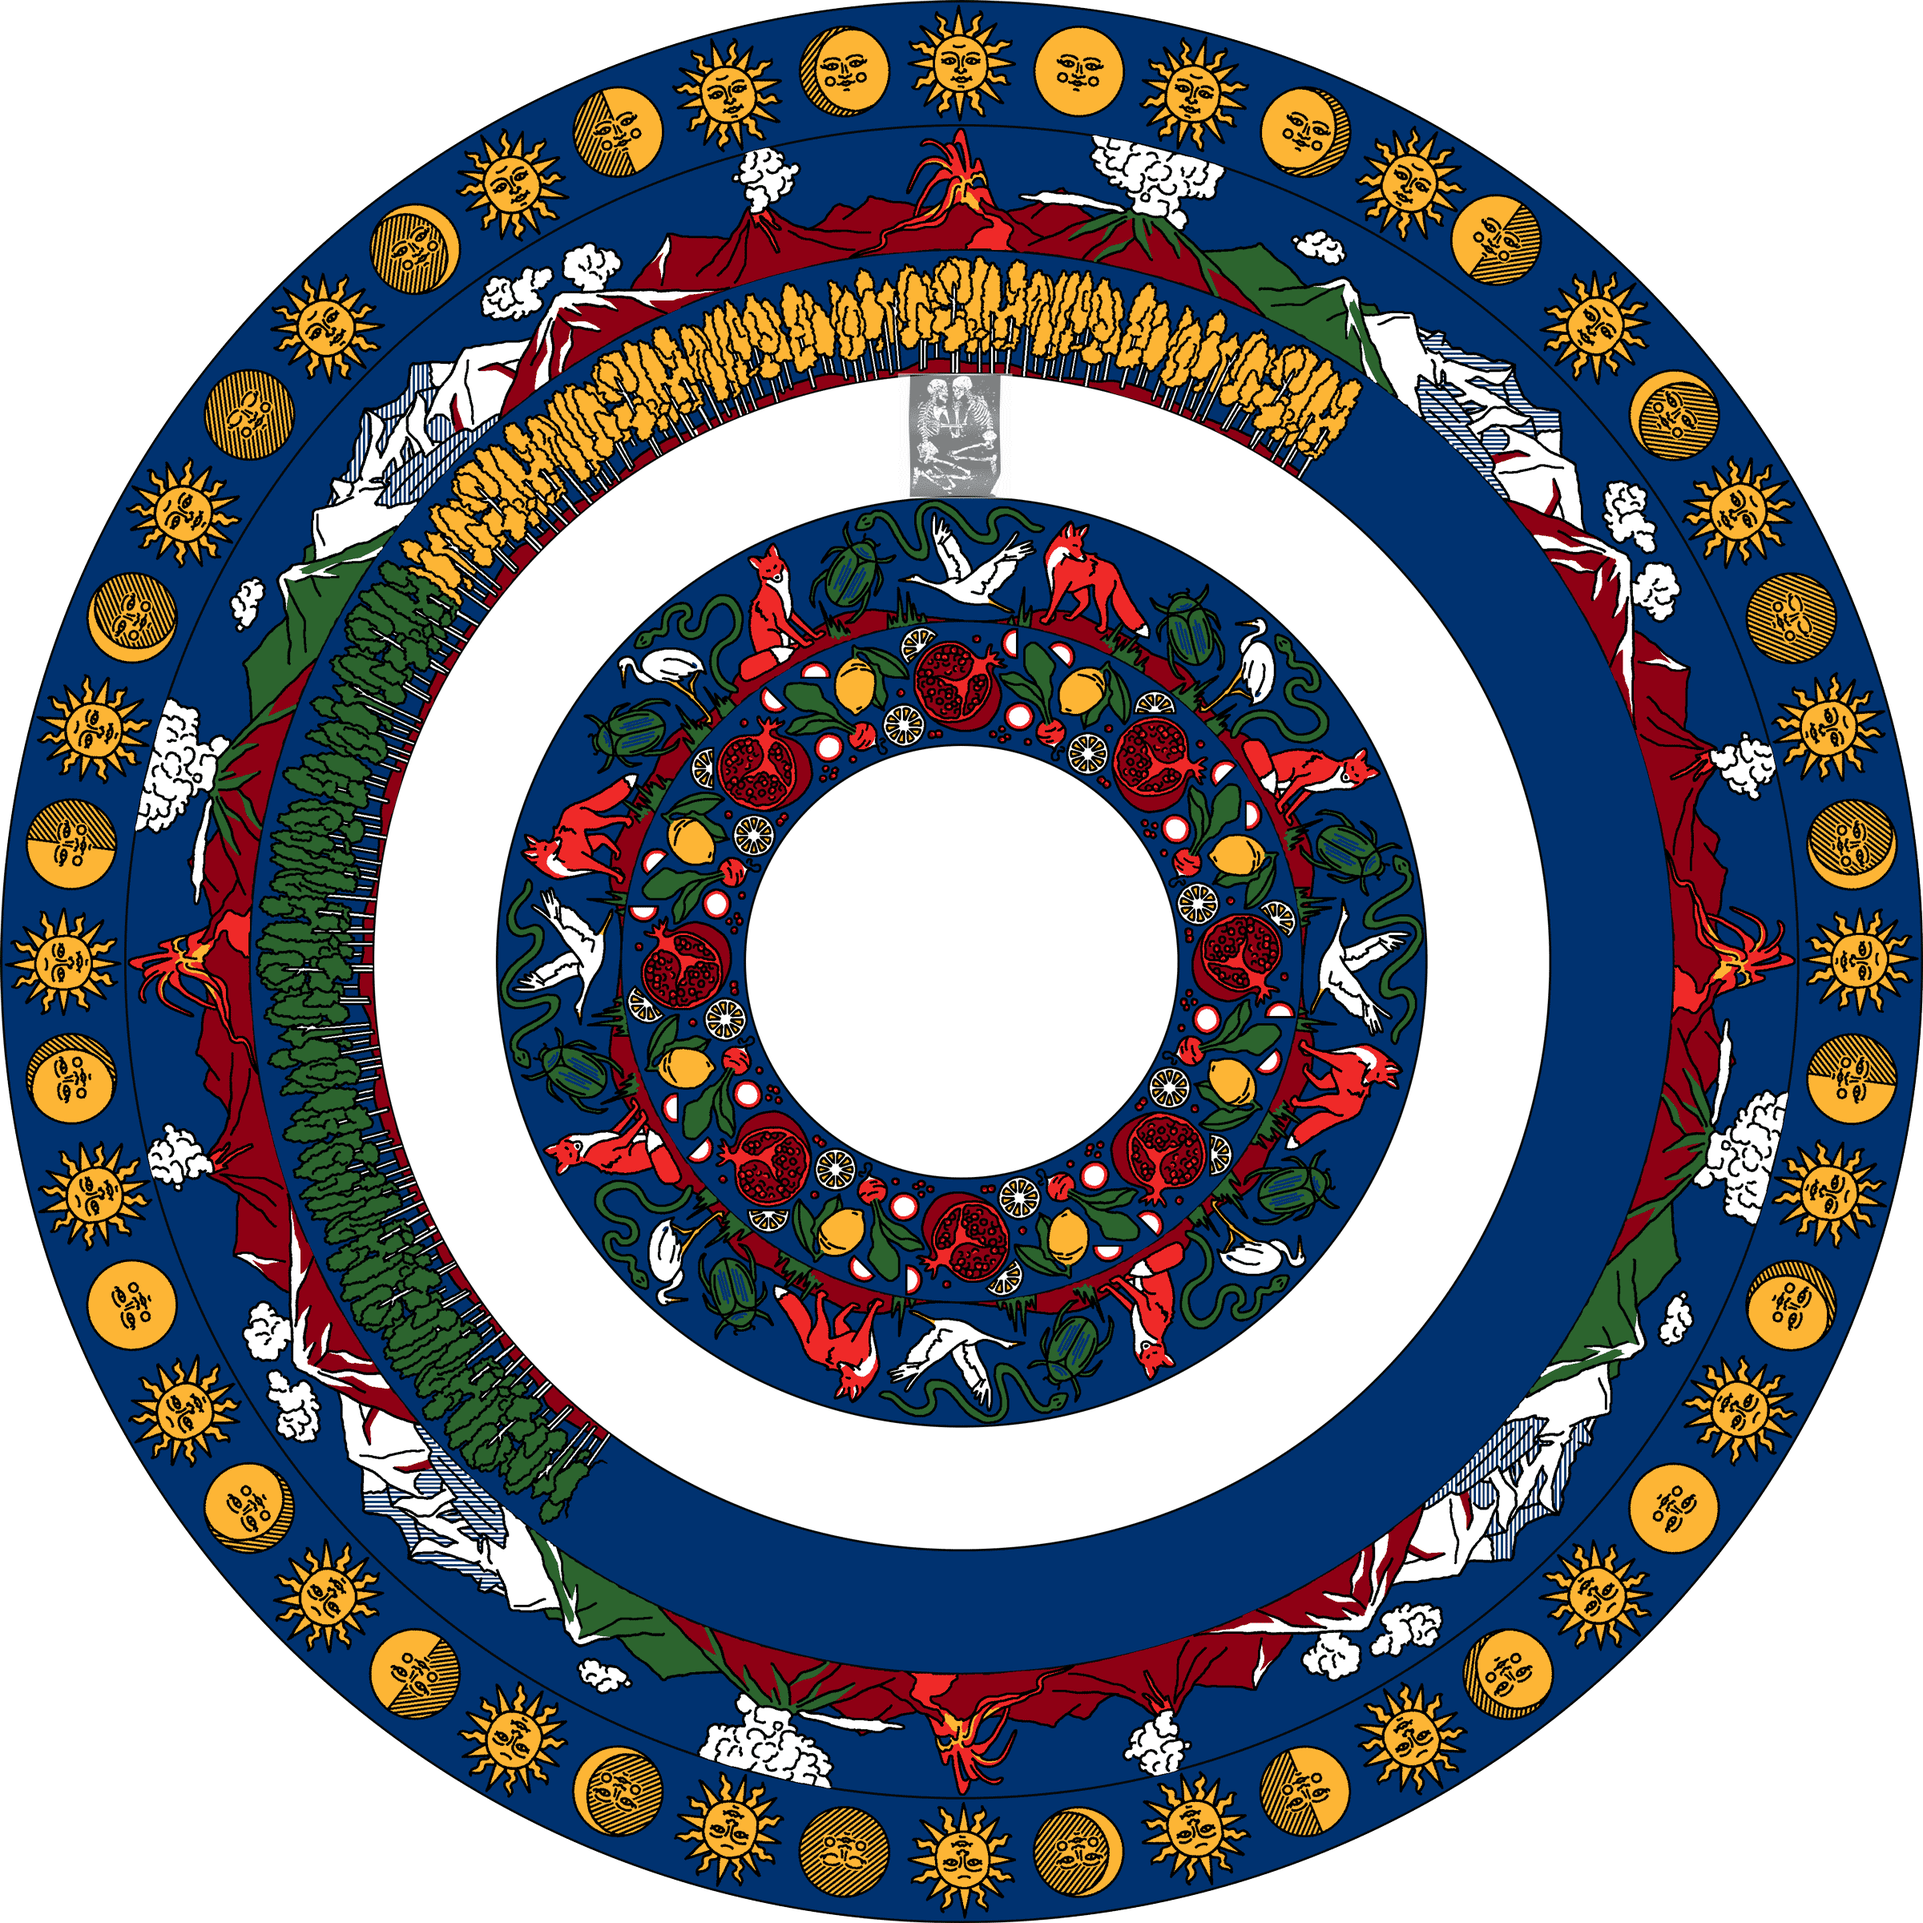
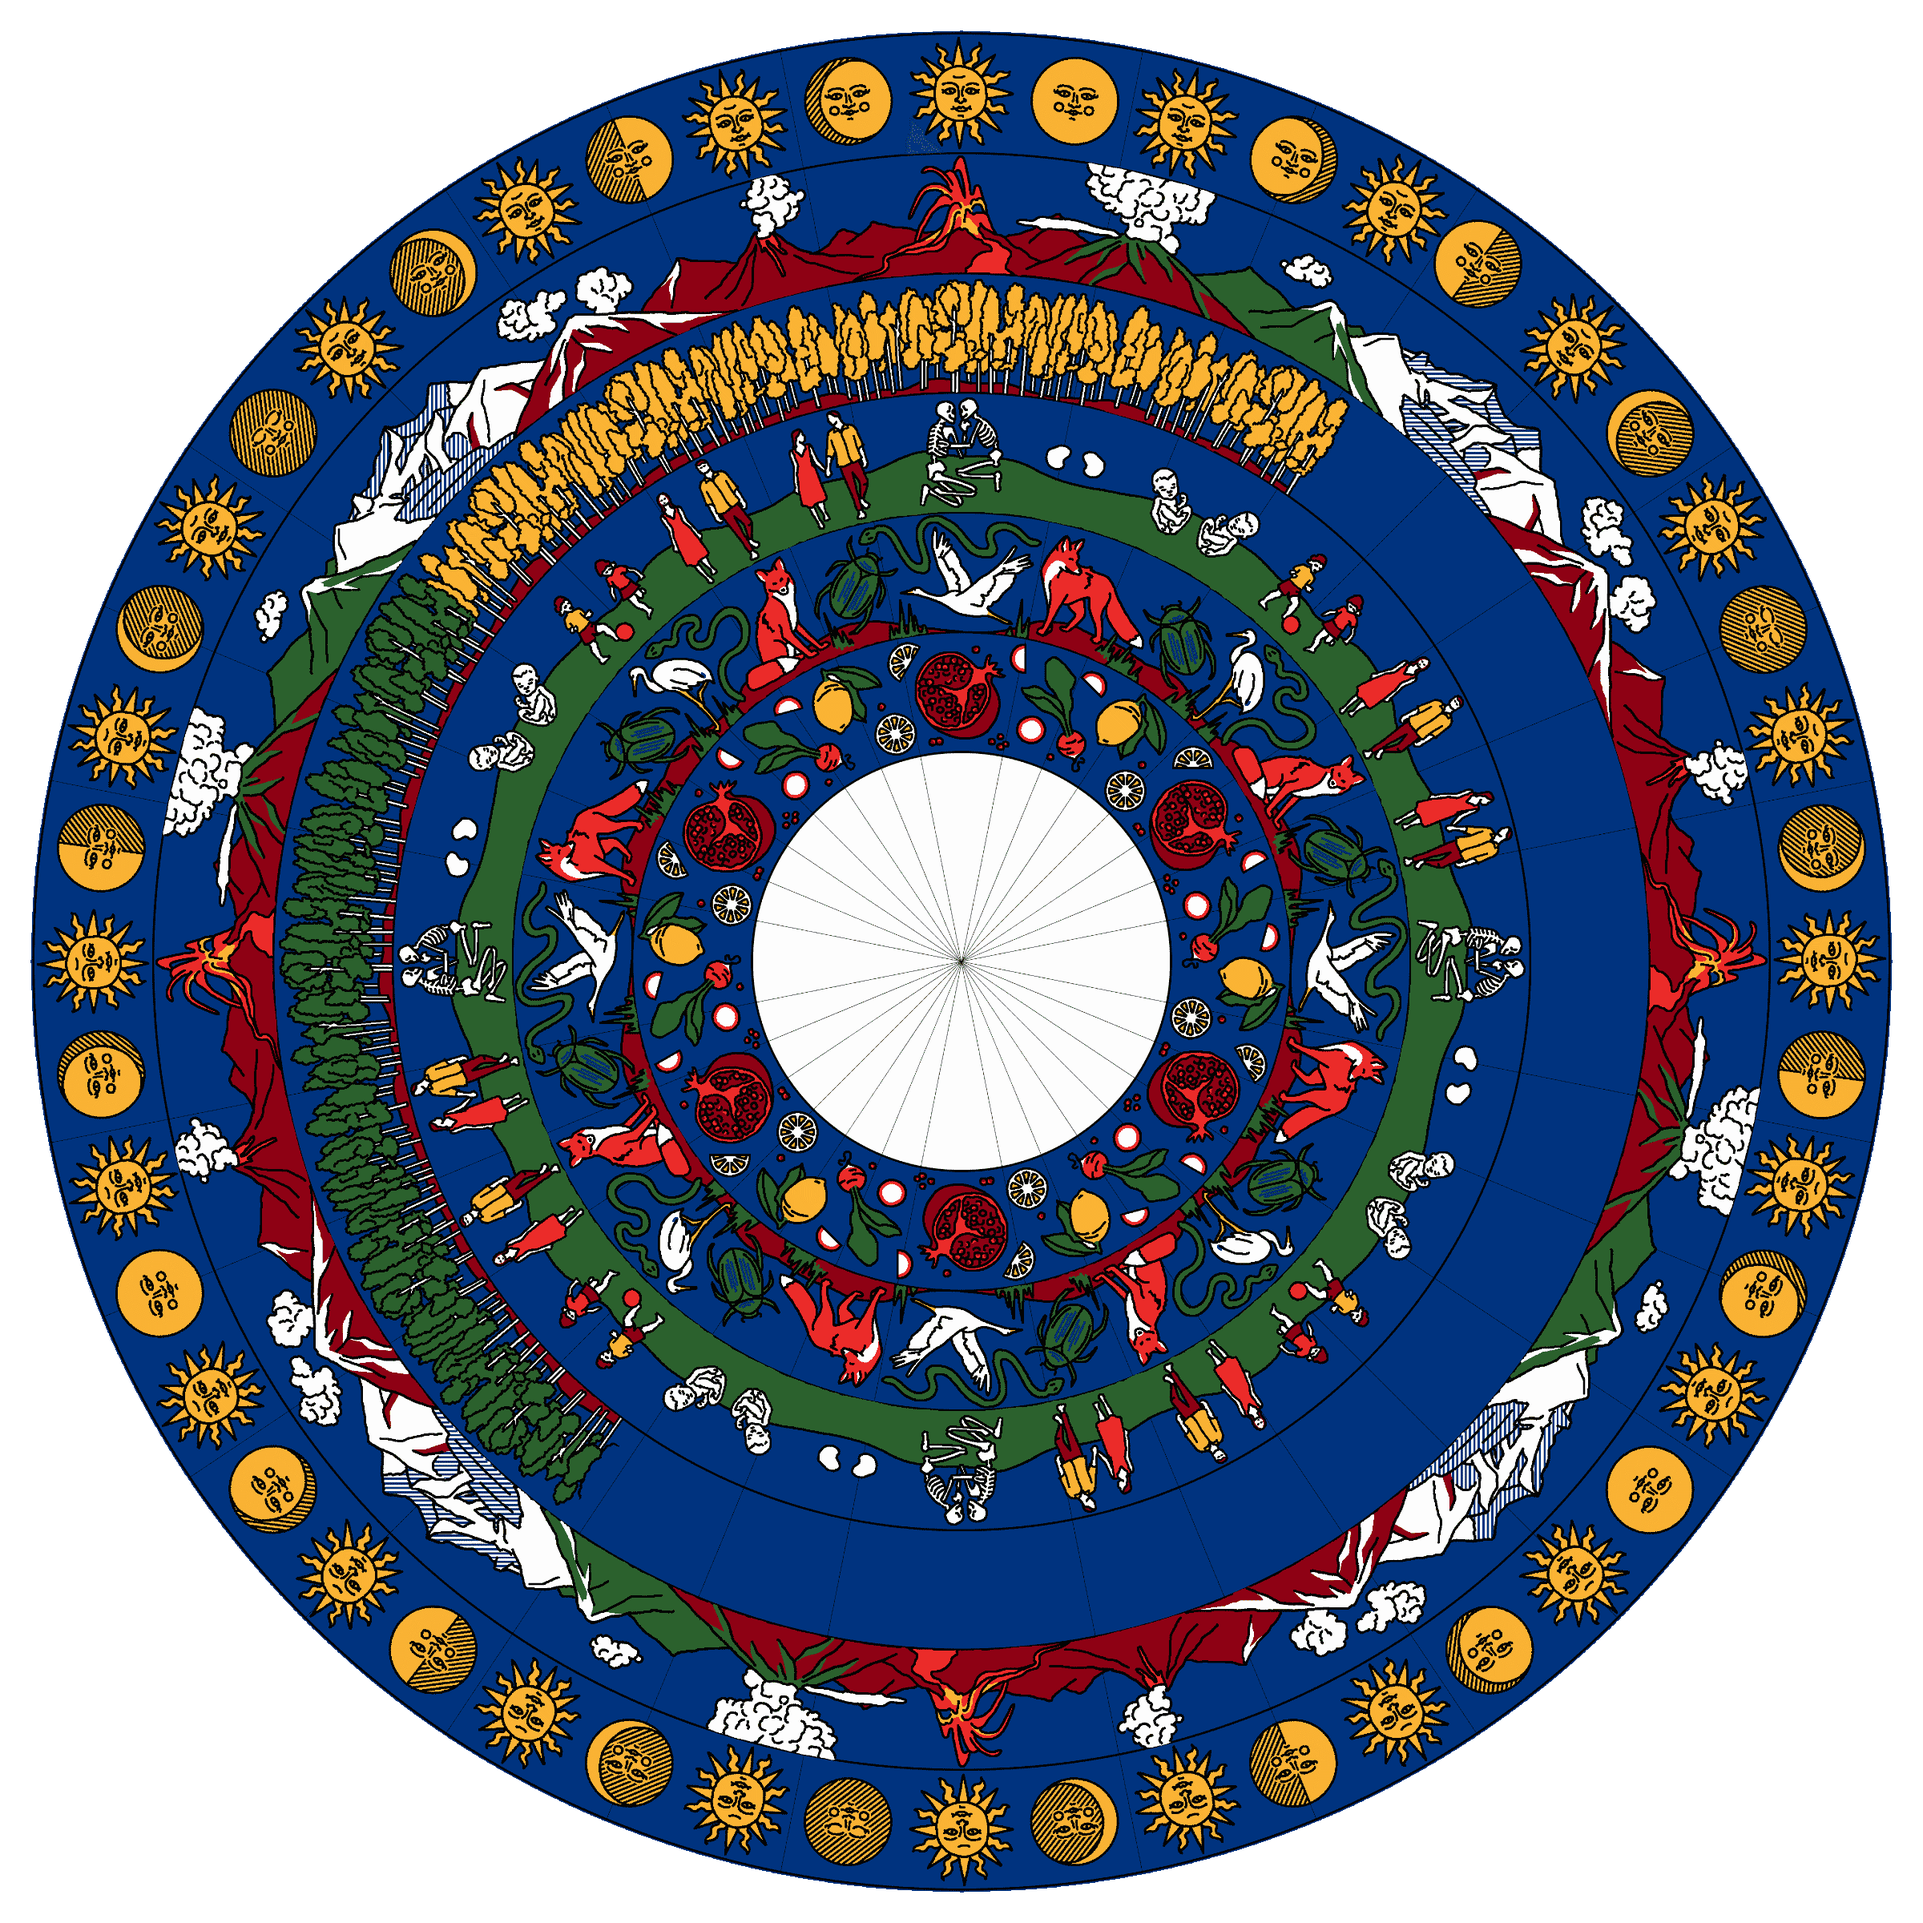
many small fixes

diff --git a/src/components/registry.js b/src/components/registry.js
@@ -9,7 +9,8 @@ const Registry = ({urls}) => (
     <h2>Registry</h2>
     <div class="left">
       <p>Your presence is plenty — but if you insist, we’ve registered via <a href={urls.zola} target="_blank" rel="noopener noreferrer">Zola.</a></p>
-      <p>Our shipping address, if you need it, is 80 Douglass Street, Brooklyn, New York, 11231.</p>
+      <p>Our shipping address, if you need it, is as follows:</p>
+      <p class="center">Jake Zien<br/>275 7th Avenue #1705<br/>New York, New York<br/>10001</p>
     </div>
     <div class="right">
       

diff --git a/src/components/Intro.js b/src/components/Intro.js
@@ -5,7 +5,7 @@ import Container from "../components/Container"
 const Intro = () => (
   <section id="intro">
     <Container>
-      <center>We&rsquo;re so excited you&rsquo;re here! We can&rsquo;t wait to celebrate with you as we open a new chapter in our life together.</center>
+      <p class="center">We&rsquo;re so excited you&rsquo;re here! We can&rsquo;t wait to celebrate with you as we start our next phase of life together.</p>
     </Container>
   </section>
 )

diff --git a/src/components/Zoetrope.js b/src/components/Zoetrope.js
@@ -13,7 +13,11 @@ const Zoetrope = () => (
       </div>
     </div>
     <div className={styles.divider}>
-      <div className={styles.sticker}></div>
+      <div className={styles.stickerBorder}></div>
+      <div className={styles.sticker}>
+        <div className={styles.stickerBg}></div>
+        <div className={styles.stickerImg}></div>
+      </div>
     </div>
   </div>
 )
